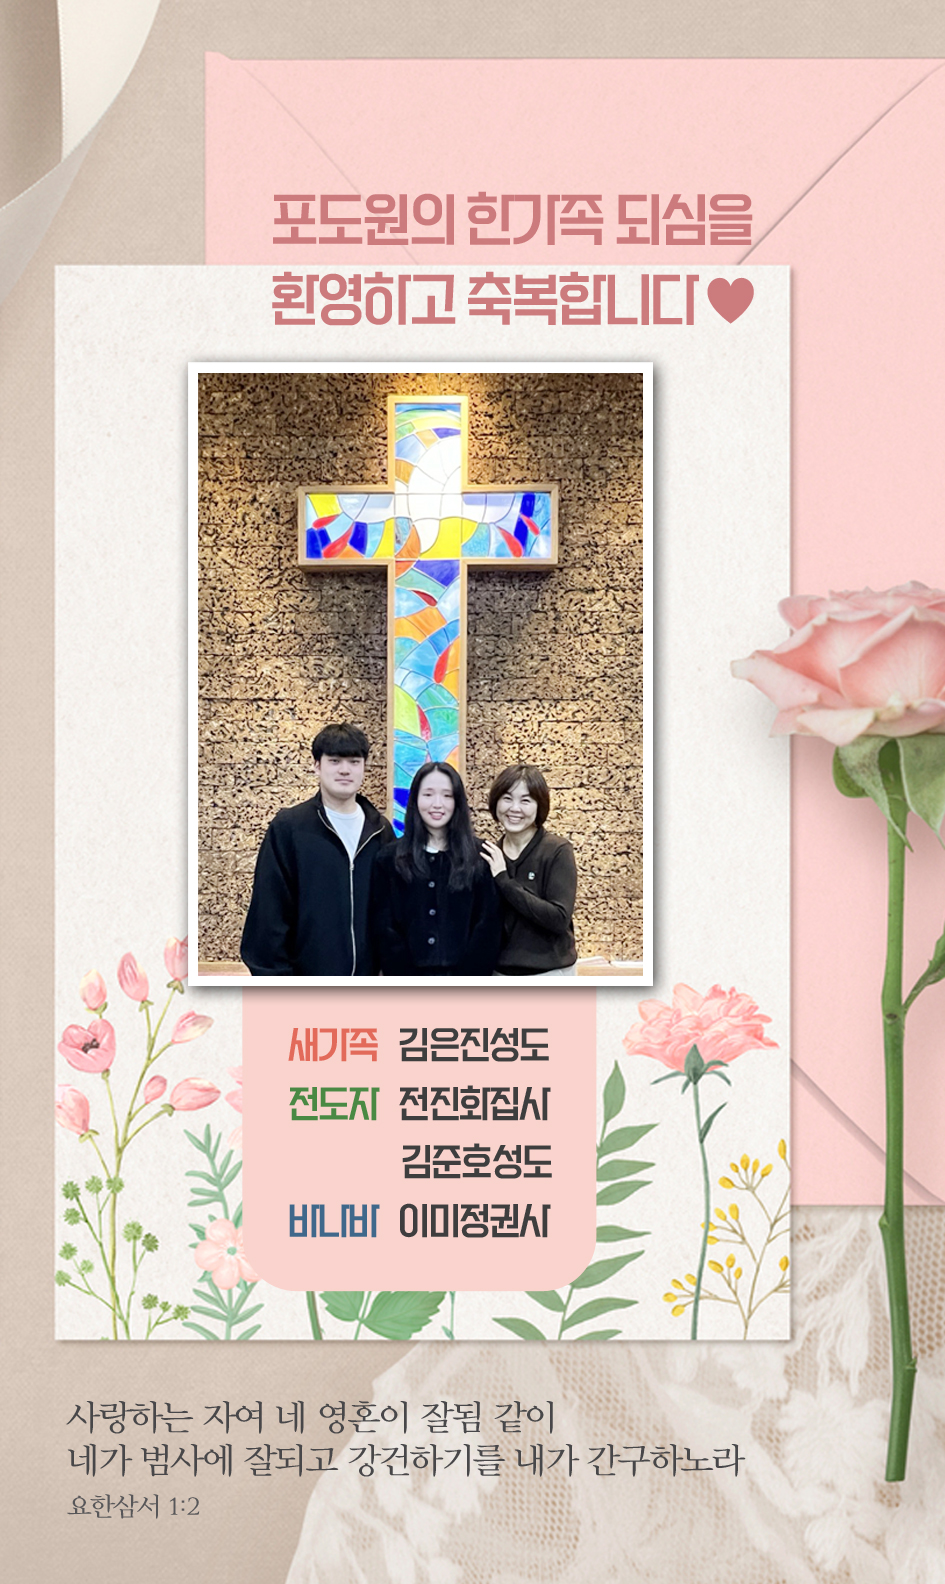
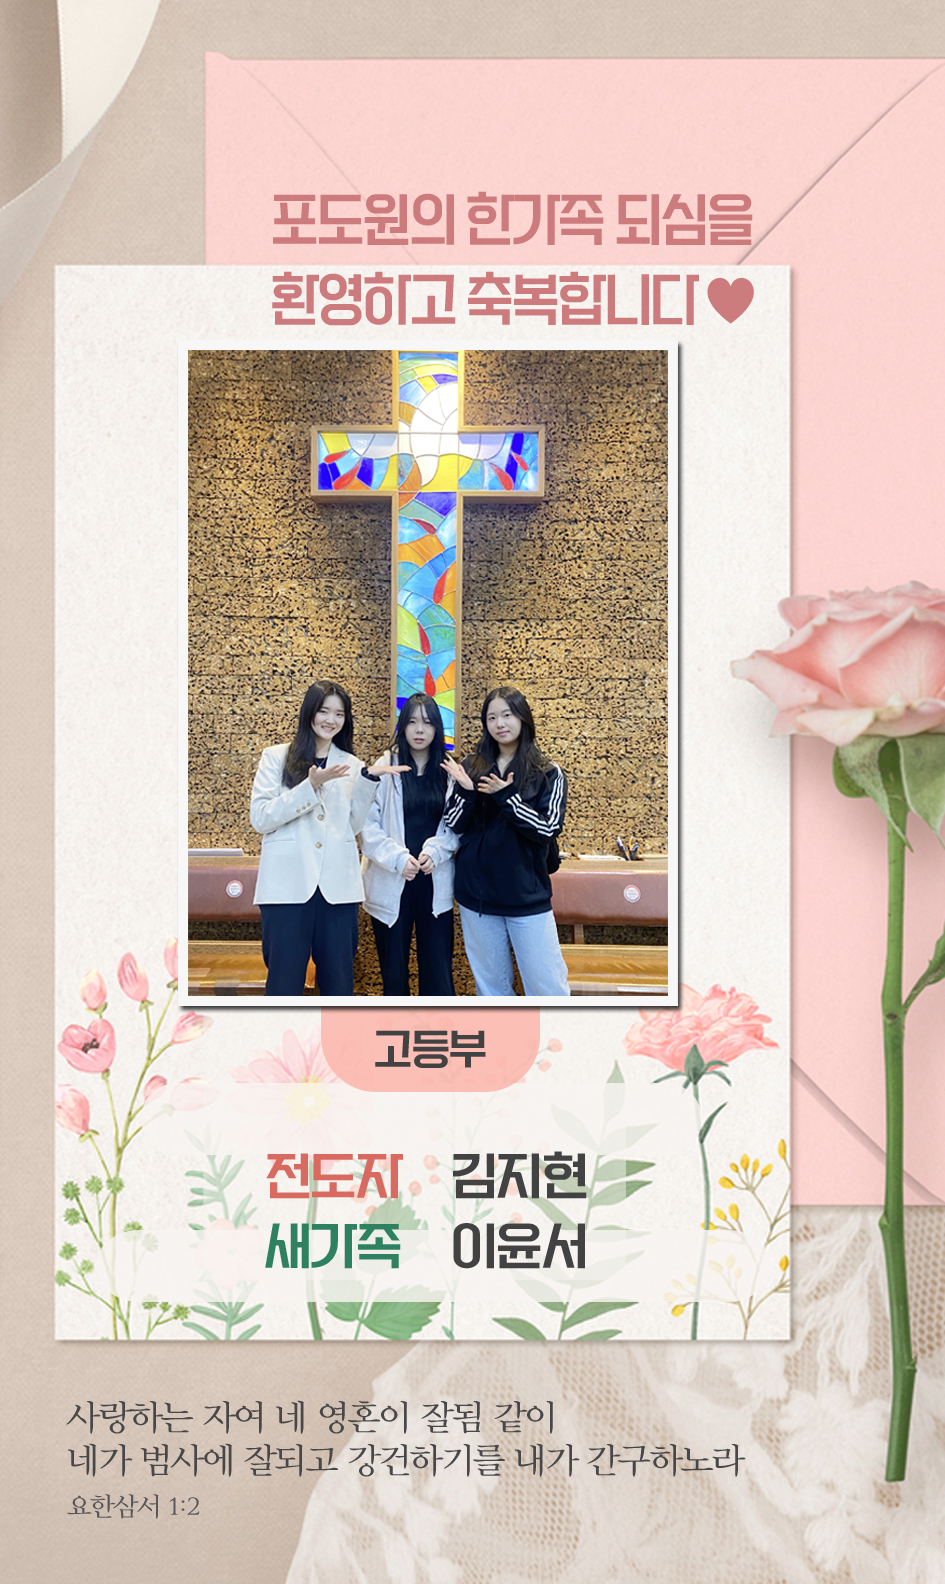
새가족추가

Changed region(s): [[0.0921, 0.2165, 0.7365, 0.8352], [0.7058, 0.7734, 0.7979, 0.8352]]

diff --git a/digital_pre.html b/digital_pre.html
@@ -532,7 +532,7 @@
                  
                    
 <!--  ------------------------------------------------------------------------------------------------- -->
-                    <!-- <img src="asset/image/common/새가족.webp" class="mainImage"> -->
+                    <img src="asset/image/common/새가족.webp" class="mainImage">
                     <div class="hg">
                         <img src="asset/image/common/헌금.webp" alt="Your Image">
                         <div class="text-overlay" id="b1">
